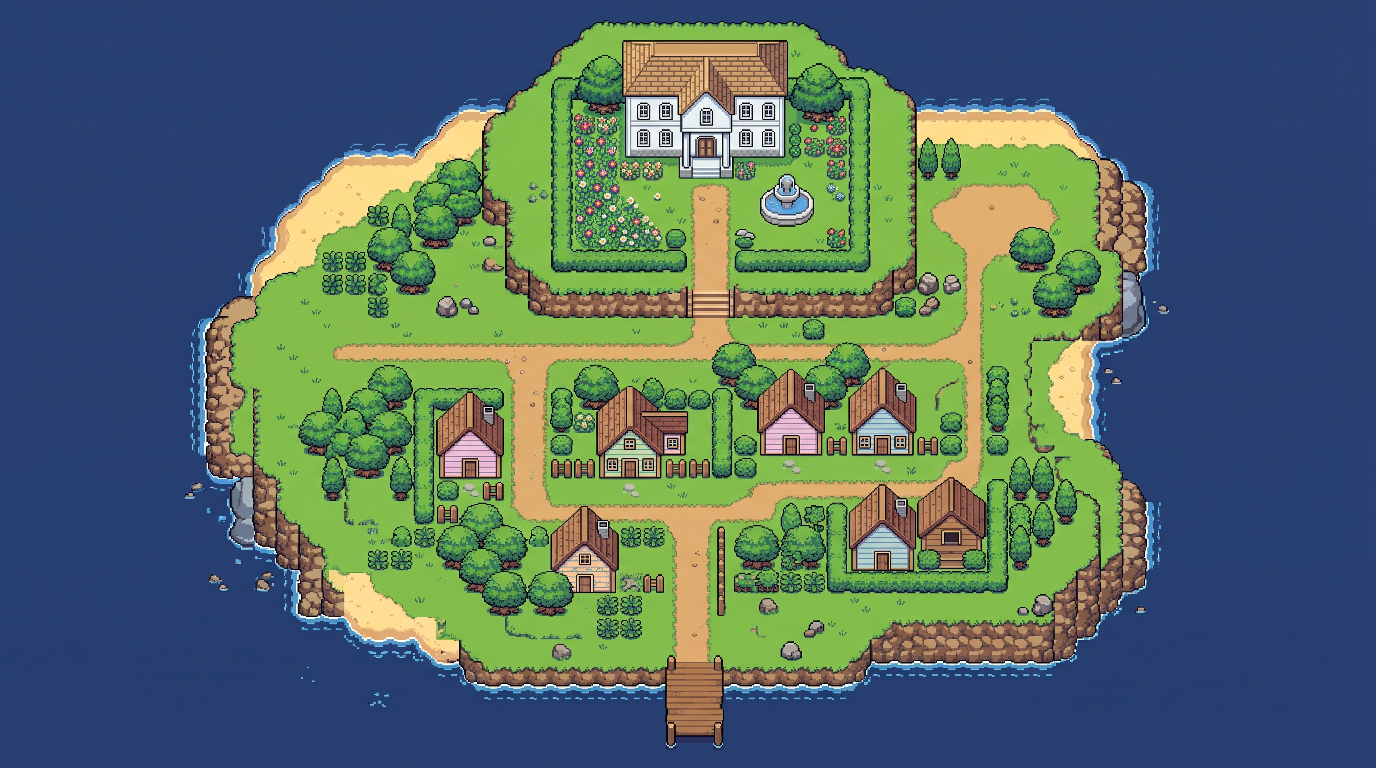
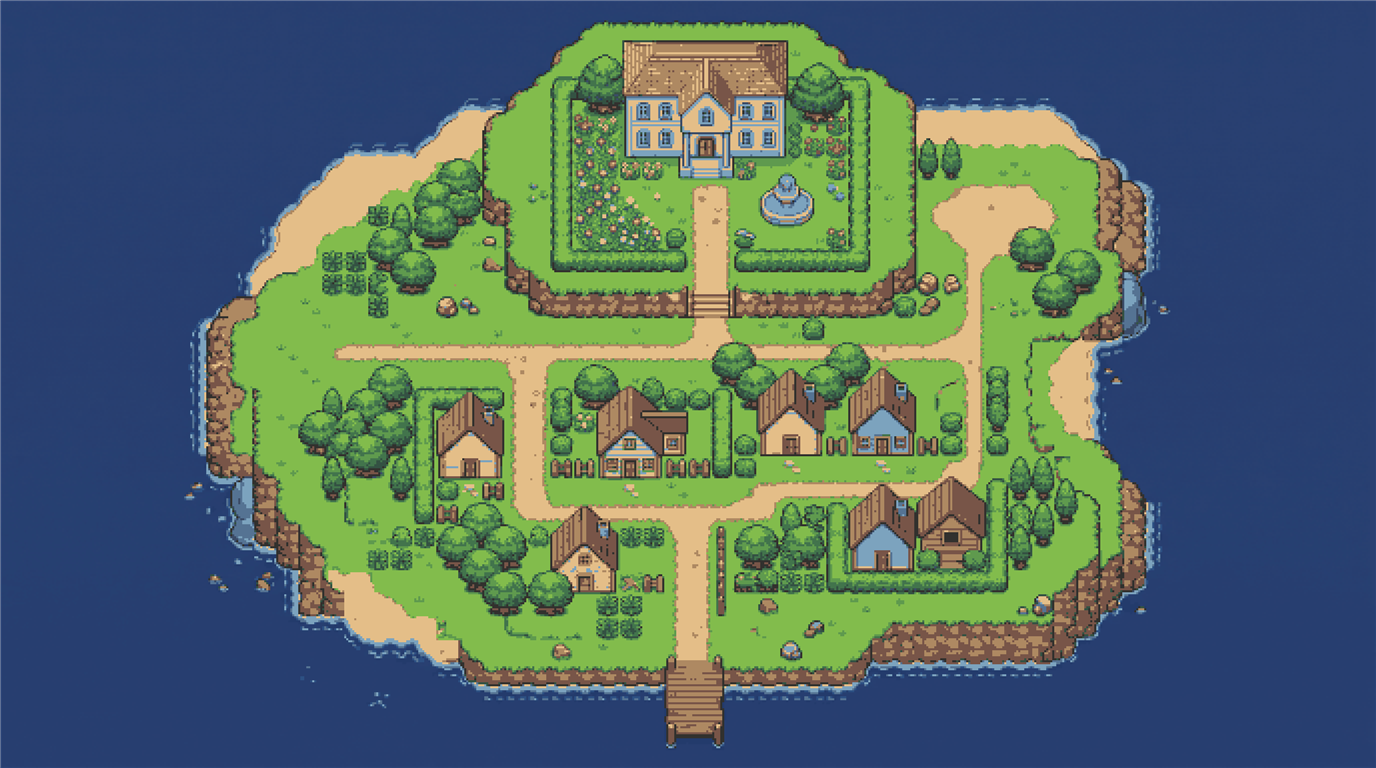
Barco en el mar y muelle hasta la costa; Villa Syrup redibujada más limpia
- El muelle avanza hasta el mar abierto (antes se paraba en muros o edificios).
- El barco se coloca en mar junto al muelle.
- Villa Syrup: misma limpieza que Orange Town (cuadrícula y 24 colores) y reducción suave.

Changed region(s): [[0.125, 0.0, 0.8438, 0.9688]]

diff --git a/js/world/island.js b/js/world/island.js
@@ -64,14 +64,22 @@ G.Island = (() => {
     for (let k = 0; k < 80; k++) {
       const cx = Math.round((rnd() - 0.5) * R * 0.5 / G.TILE) * G.TILE;
       let cy = 0;
-      while (Math.abs(cy) < R * 1.4 && land(cx, cy + dir * 16)) cy += dir * 16;
+      // Avanza hasta el mar abierto (no se para en un muro o edificio interior).
+      while (Math.abs(cy) < R * 1.4 && G.World.waterAt(cx, cy + dir * 16) !== 2) cy += dir * 16;
       if (land(cx, cy)) { px = cx; py = cy; break; }
     }
     const L = 7 * G.TILE, W = 2 * G.TILE;
     const y0 = dir > 0 ? py - 2 * G.TILE : py - L, y1 = dir > 0 ? py + L : py + 2 * G.TILE;
     dock = { x0: px - W / 2, x1: px + W / 2, y0, y1, dir, coastY: py,
              endX: px, endY: dir > 0 ? y1 - 24 : y0 + 24 };
-    dock.shipX = px + 130; dock.shipY = dock.endY + (dir > 0 ? 40 : 20);
+    // El barco va en mar abierto junto al muelle (nunca encima de la tierra del mapa).
+    const sea = (x, y) => G.World.waterAt(x, y) === 2;
+    const afloat = (x, y) => sea(x, y) && sea(x - 40, y) && sea(x + 40, y) && sea(x, y - 20) && sea(x, y + 20);
+    const sy = dock.endY + (dir > 0 ? 40 : 20);
+    dock.shipX = px + 130; dock.shipY = sy;
+    for (const dx of [130, 170, 210, 250, -130, -170, -210, -250]) {
+      if (afloat(px + dx, sy)) { dock.shipX = px + dx; break; }
+    }
     G.World.setPier(dock);
     G.World.reserve(px, py, 3);
 
